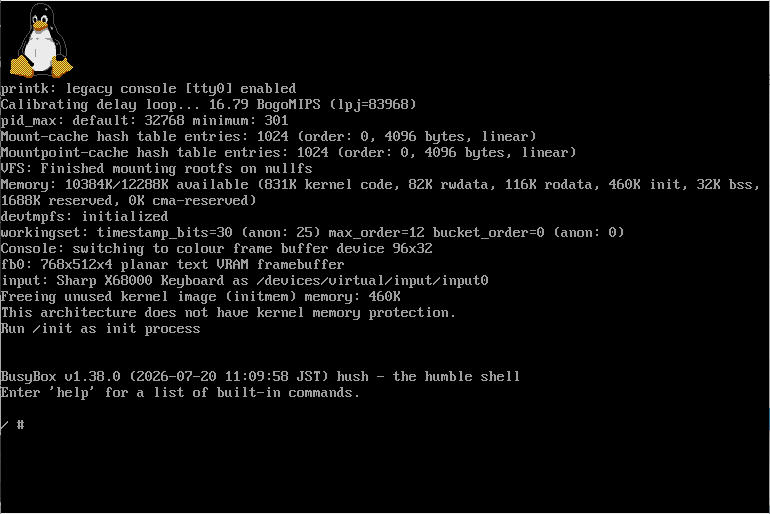
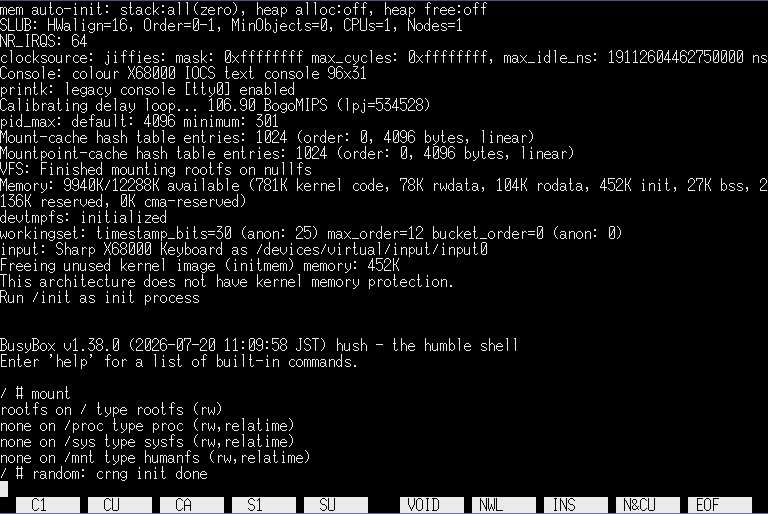
Update README.md

diff --git a/README.md b/README.md
@@ -6,18 +6,23 @@
 
 68000にはMMUが搭載されていませんが、本プロジェクトではMMUを使用しない組み込み向けLinux(uClinux)を使用します。
 
+**(NEW)** Human68k上のプロセスとして動作するようになりました。Linux側からHuman68kのファイルシステムにアクセスできるようになりました。LinuxからHuman68kに戻ることも可能です。
+
 ![Linux for X68000](x68klinux.png)
 
 ## 起動方法
 
-- [リリースアーカイブ](https://github.com/yunkya2/linux-x68k/releases)内の `loader.x` と `vmlinux.bin` をHuman68k上で同じディレクトリに置き、 `loader.x` を実行してください
-- gzip圧縮したカーネルも `loader.x vmlinux.gz` のようにファイル名を指定して起動できます
-- `HUMAN.SYS`、`COMMAND.X`、`xdftool.py`を用意して`make xdf`, `make hdf`を実行すると、エミュレータから直接起動できる`linux-x68k.xdf`, `linux-x68k.hdf`を作成できます。起動後は`AUTOEXEC.BAT`から自動的にLinuxを起動します
+- [リリースアーカイブ](https://github.com/yunkya2/linux-x68k/releases)内の `linux.x` と `linux.sys` をHuman68k上の同じディレクトリに置き、`linux.x` を実行してください
+- `linux.x`の引数はLinuxカーネルの起動パラメータとして渡されます。引数を省略した場合は`init=/bin/sh`が使用されます
+  - 例: `linux.x init=/bin/sh mem=8M`
+  - `mem=`はLinuxが使用するメモリの終端を指定します。省略時はX68000のSRAMに記録されたメモリ終端値が使用されます
+  - initramfs内の`/init`は`init=`より先に実行されます。デフォルトの`/init`以外を起動する場合は`rdinit=`を使用してください
+- `HUMAN.SYS`、`COMMAND.X`、`xdftool.py`を用意して`make hdf`を実行すると、エミュレータから直接起動できる`linux-x68k.hdf`を作成できます。起動後は`AUTOEXEC.BAT`から自動的にLinuxを起動します
 - しばらく待つとLinuxカーネルが起動し、シェルプロンプトが表示されます
-  - シェルプロンプトが出るまで、10MHz機で1分半ほどかかります。気長に待ってください
-    - (gzip圧縮したカーネルを使用するとさらに時間がかかります)
-  - キーボードはUS配列になっています
-- 起動すると本体の電源スイッチが効かなくなります。電源を切る際は一度リセットしてください
+  - 10MHz機では起動に時間がかかります
+- キーボードはX68000のJIS配列に対応しています
+- デフォルトのinitramfsは`humanfs`を`/mnt`にマウントします。メディアが挿入されているHuman68kのドライブを`/mnt/c`、`/mnt/d`などからアクセスできます
+- 起動したシェルをCTRL-Dで終了させる、Interruptスイッチを押す、バスエラー等のエラーの発生により、Linuxを終了してHuman68kに戻ります
 
 ## 制約事項
 
@@ -50,14 +55,11 @@ make everything
 
 - 以下のデバイスのみサポートしています
   - MFP Timer-C (tick timer)
-  - MFP USART (キー入力)
-  - カーネルデバッグコンソール出力
-  - テキストVRAMによるフレームバッファコンソール
-  - ~~グラフィックVRAMによるフレームバッファコンソール~~
-    - ~~Linux kernelのsimple framebufferはX68000のテキストVRAMのようなプレーン形式をサポートしていないため、グラフィック画面をコンソール出力に使用しています~~
-    - ~~simple framebufferが対応しているピクセルフォーマットは(MSB側から見て)RGBの並びですがX68000はGRBの順に並んでいるため、カラーパレットを用いてRとGを入れ替えています~~
-- Linuxカーネルはアドレス 0x004000- に配置されます
-  - Human68k上のローダーはmalloc()で確保した領域に一旦ロードした後、0x004000-にコピーしてからジャンプします
+  - MFP USART (JISキーボード入力)
+  - IOCSテキストコンソール
+  - 起動初期のシリアルおよびIOCSコンソール出力 (`CONFIG_X68K_EARLY_CONSOLE`有効時のみ)
+  - Human68k DOSコールでファイルシステムへアクセスする`humanfs`
+- Human68k上の`linux.x`は自身のメモリブロックを最大まで拡張し、自身と同じディレクトリの`linux.sys`を8192バイト境界にロードして実行します
 - ユーザランドのCライブラリにはuClibcを使用しています
   - gccを`m68k-uclinux-uclibc`というターゲットでビルドしていますが、このターゲットでgccを作るとCPU種別に関係なくunaligned accessが可能な設定でコードが出力されてしまうため、68000で実行するとアドレスエラーが発生してしまいます。これを修正するための[パッチ](https://github.com/yunkya2/buildroot/commit/3d4d43fa887fcd5f42927d5c2869d8c9df79d8d2)をbuildrootに追加しています
 - X68k版では100HzのTimer-C割り込みでタスクスケジューリングを行っていますが、10MHz機だとその処理が終わる前に次の割り込み周期が来てしまい、起動中に初期化処理が先に進まなくなってしまいます。このため、tick処理の呼び出し周期を下げるためのオプション (`CONFIG_X68K_LEGACY_TICK_DIVISOR`) を追加し、割り込み10回に1回だけtick処理を呼び出すようにしています。
